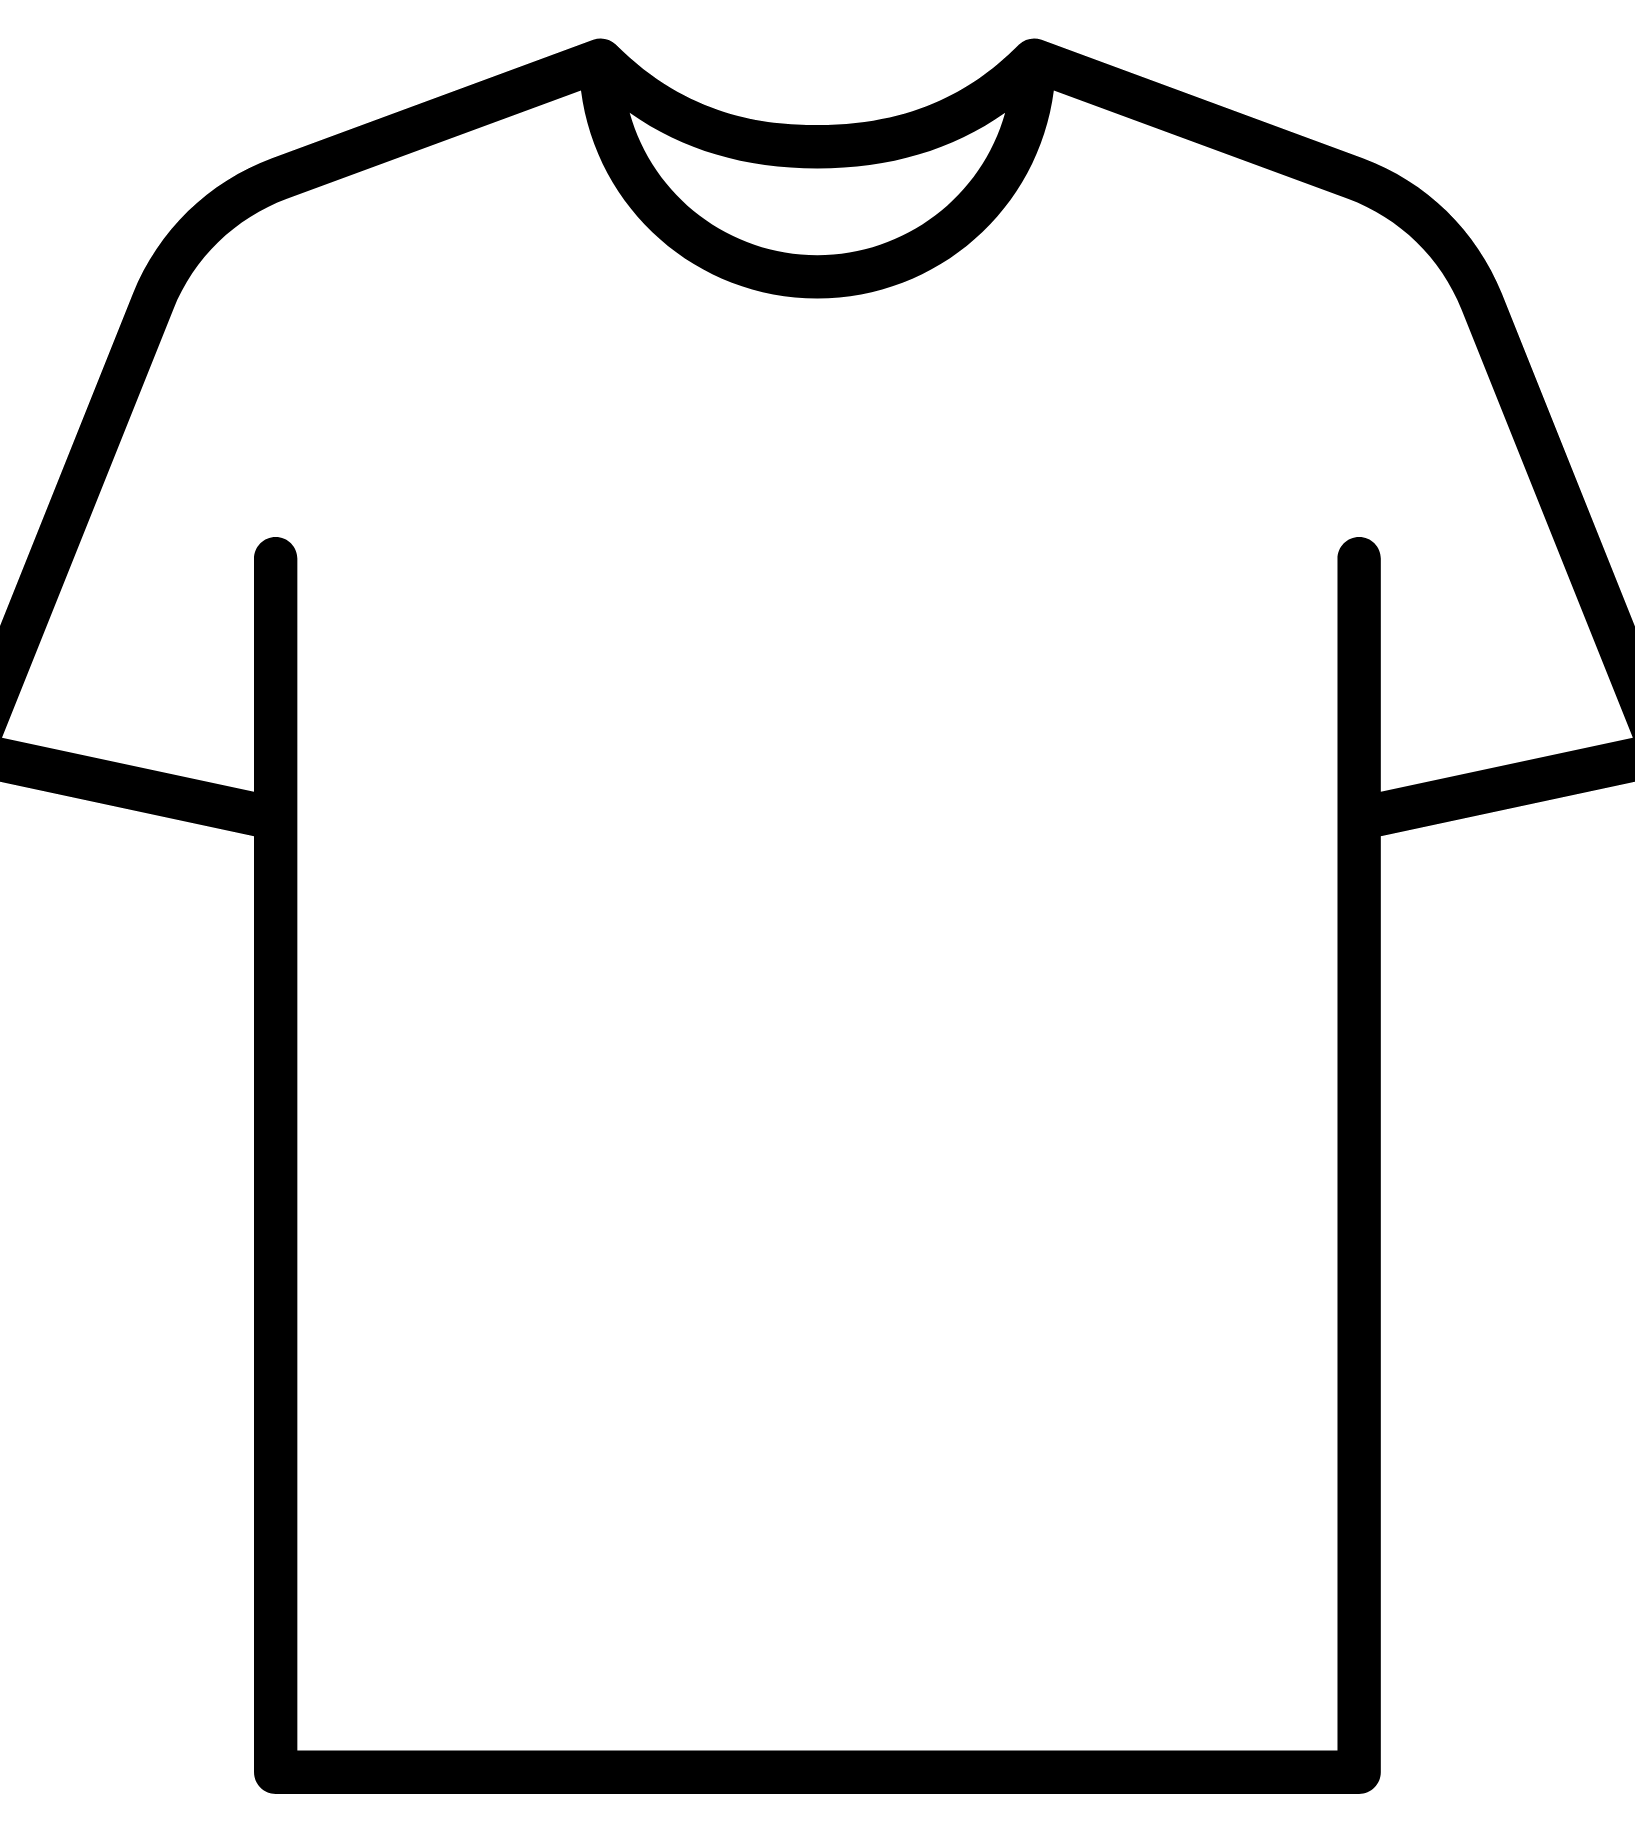
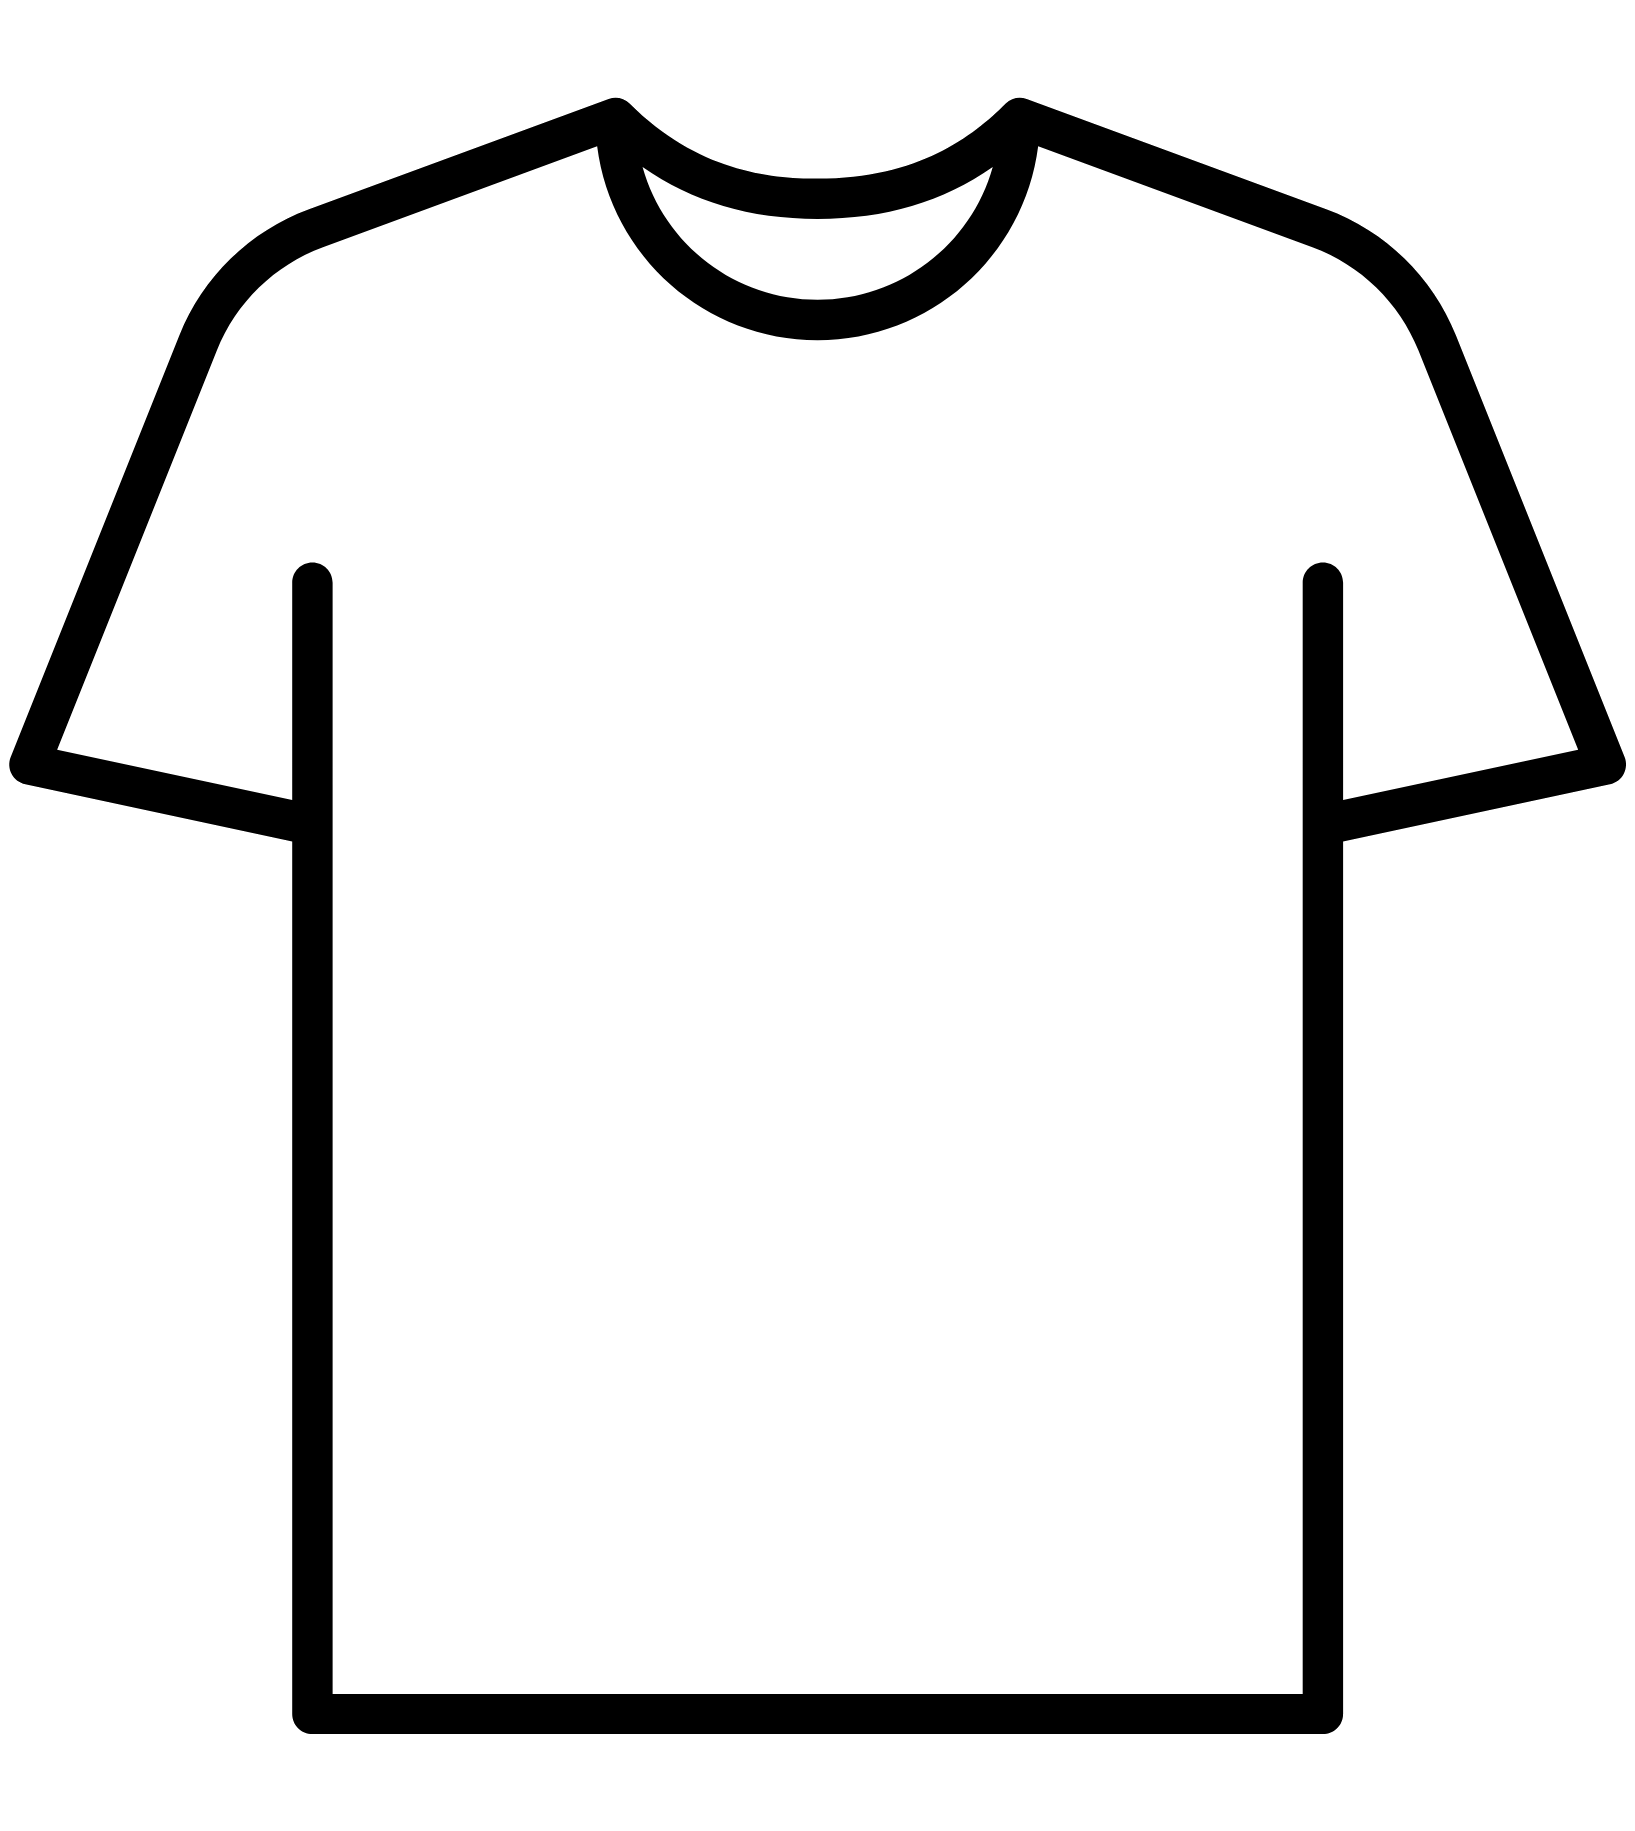
Shirt image inset fix

Changed region(s): [[0.156, 0.2802, 0.8422, 0.9962], [0.0, 0.0, 1.0, 0.4358]]

diff --git a/src/app/configure/design/DesignConfigurator.tsx b/src/app/configure/design/DesignConfigurator.tsx
@@ -172,7 +172,7 @@ const DesignConfigurator = ({
             />
           </AspectRatio>
 
-          <div className="absolute z-40 inset-0 left-[110px] top-[40px] right-[110px] bottom-[30px] rounded-[32px] shadow-[0_0_0_99999px_rgba(229,231,235,0.6)]" />
+          <div className="absolute z-[999] inset-0 left-[110px] top-[110px] right-[110px] bottom-[50px] rounded-[32px] shadow-[0_0_0_99999px_rgba(229,231,235,0.6)]" />
           <div className="absolute inset-0 left-[3px] top-px r-[3px] bottom-px rounded-[32px] bg-[rgba(229,231,235,0.6)] shadow-[0_0_0_99999px_rgba(229,231,235,0.6)]" />
         </div>
 
@@ -183,7 +183,7 @@ const DesignConfigurator = ({
             height: imageDimensions.height / 3,
             width: imageDimensions.width / 3,
           }}
-          className="absolute z-[40] border-[3px] border-primary"
+          className="absolute z-50 border-[3px] border-primary"
           lockAspectRatio
           onResizeStop={(_, __, ref, ___, { x, y }) => {
             setRenderedDimension({

diff --git a/src/app/configure/preview/DesignPreview.tsx b/src/app/configure/preview/DesignPreview.tsx
@@ -85,11 +85,12 @@ const DesignPreview = ({ configuration }: { configuration: Configuration }) => {
 
       <LoginModal isOpen={isLoginModalOpen} setIsOpen={setIsLoginModalOpen} />
 
-      <div className="mt-20 flex flex-col items-center md:grid text-sm sm:grid-cols-12 sm:grid-rows-1 sm:gap-x-6 md:gap-x-8 lg:gap-x-12">
-        <div className="md:col-span-4 lg:col-span-3 md:row-span-2 md:row-end-2">
+      <div className="mt-20 flex flex-col items-center lg:grid text-sm sm:grid-cols-12 sm:grid-rows-1 sm:gap-x-6 md:gap-x-8 lg:gap-x-12">
+        <div className="col-span-6 md:row-span-2 md:row-end-2">
           <Shirt
             imgSrc={configuration.croppedImgUrl!}
-            className={cn(`bg-${tw}`, "max-w-[150px] md:max-w-full")}
+            className={cn(`bg-${tw}`, "max-w-xl")}
+            imgClassName="rounded-xl"
           />
         </div>
 

diff --git a/src/components/Reviews.tsx b/src/components/Reviews.tsx
@@ -105,7 +105,7 @@ function Review({ imgSrc, className, ...props }: ReviewProps) {
     >
       <div className="w-full flex justify-center min-h-fit">
         <div className="relative md:max-w-xl">
-          <Shirt className="w-72 mx-auto" imgClassName="inset-20" imgSrc={imgSrc} />
+          <Shirt className="w-72 mx-auto" imgClassName="inset-24" imgSrc={imgSrc} />
         </div>
       </div>
     </div>
